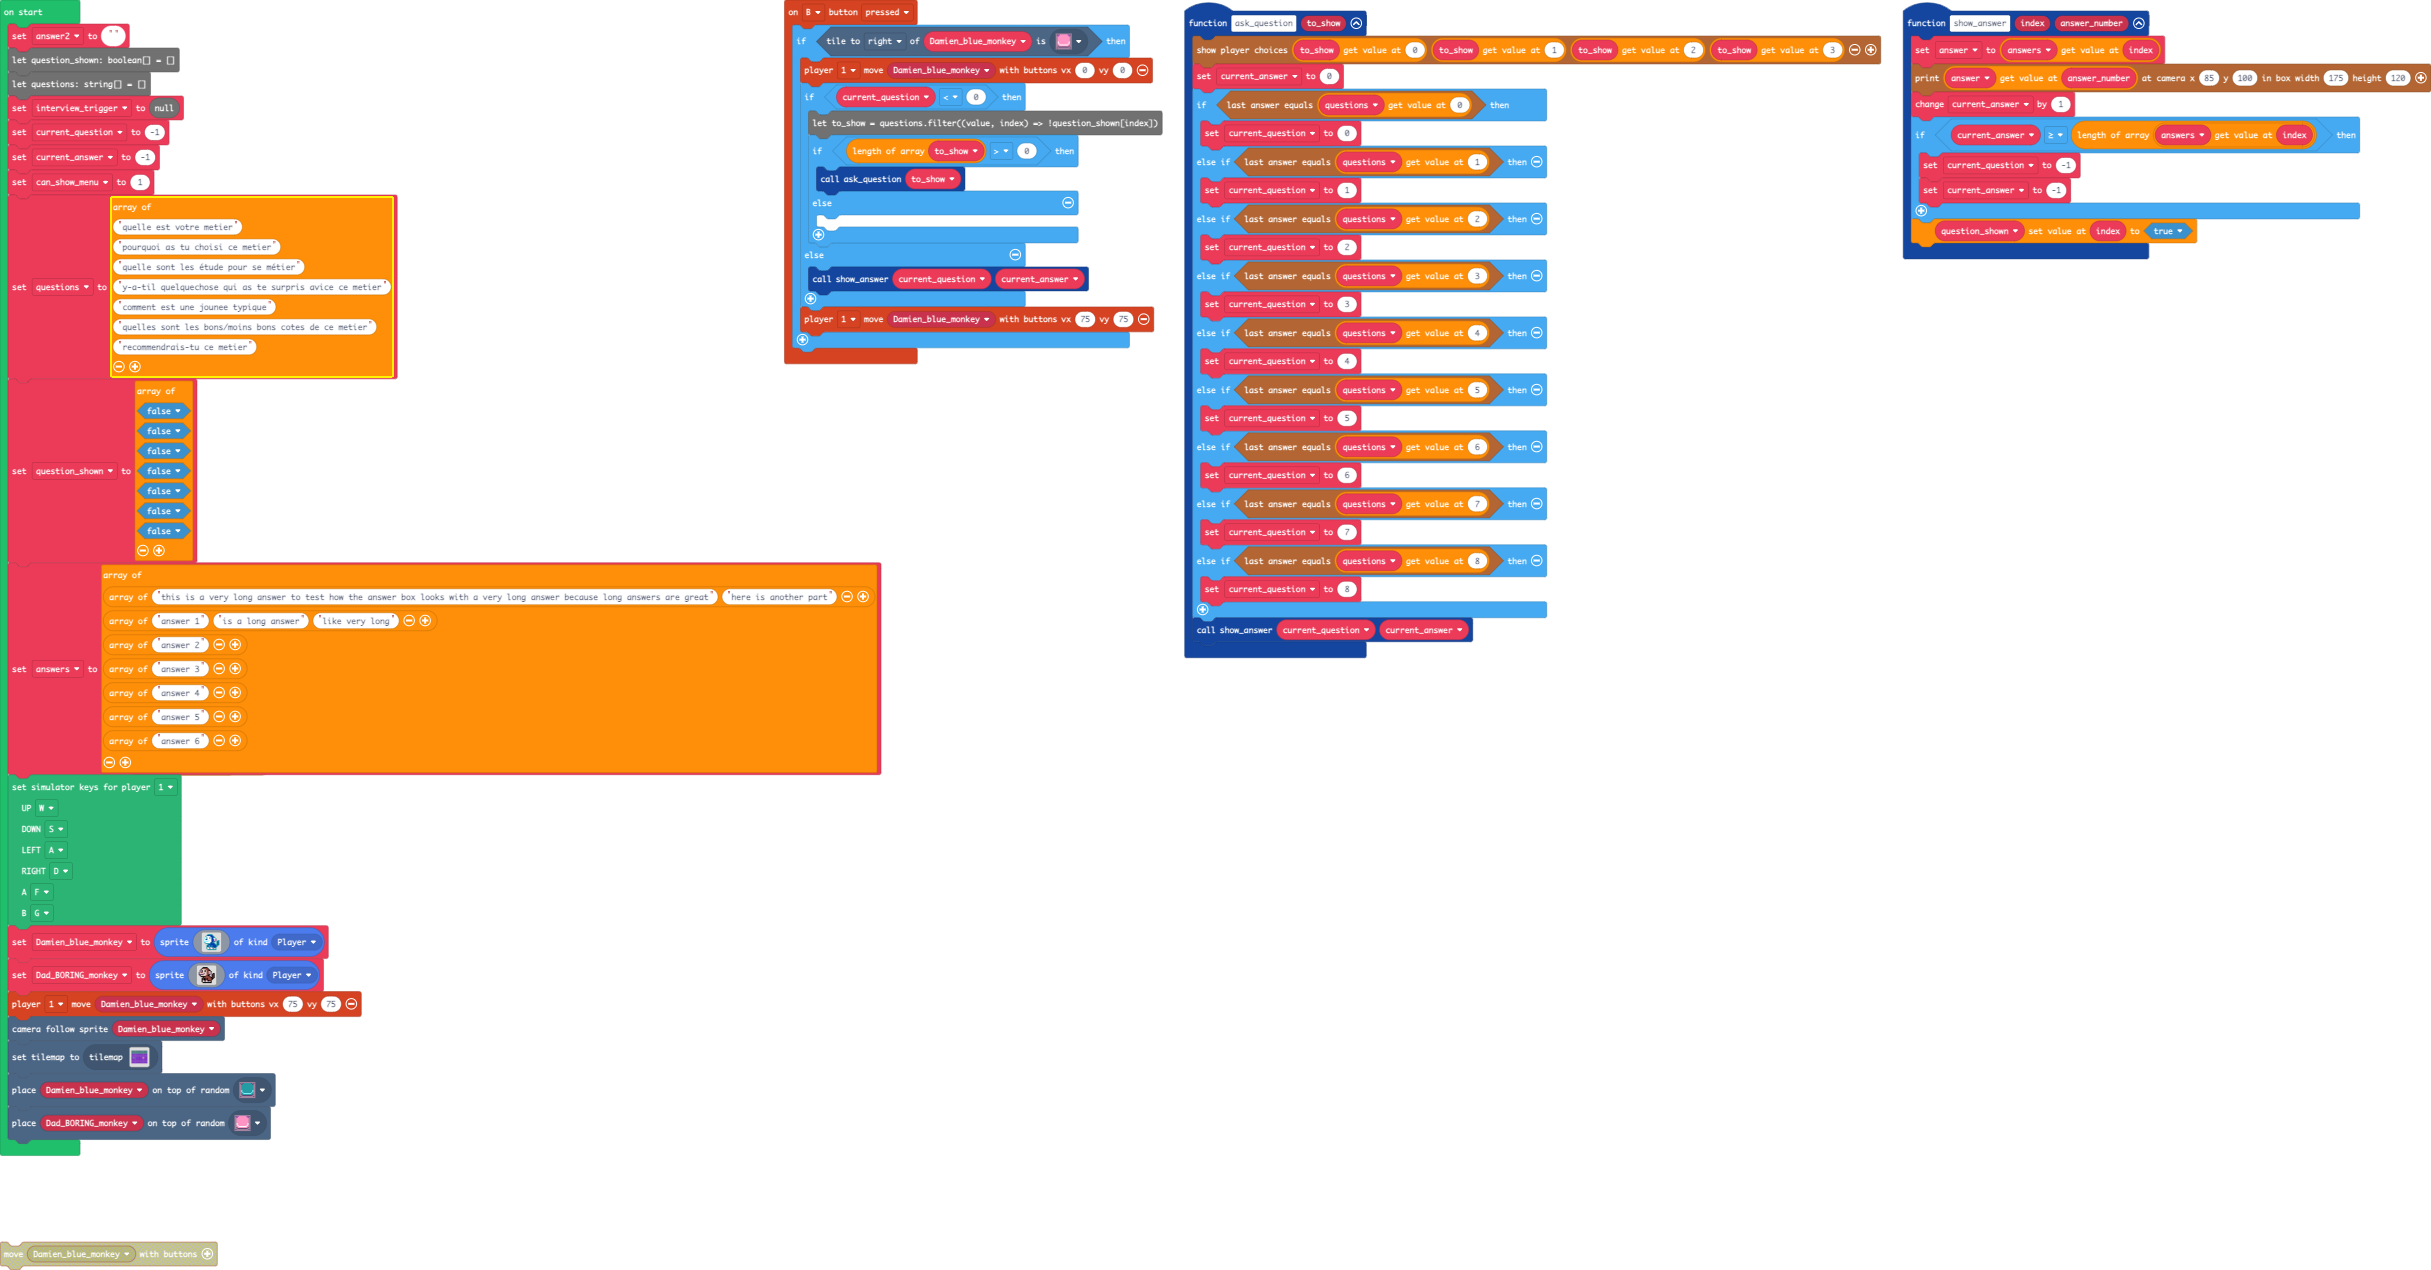
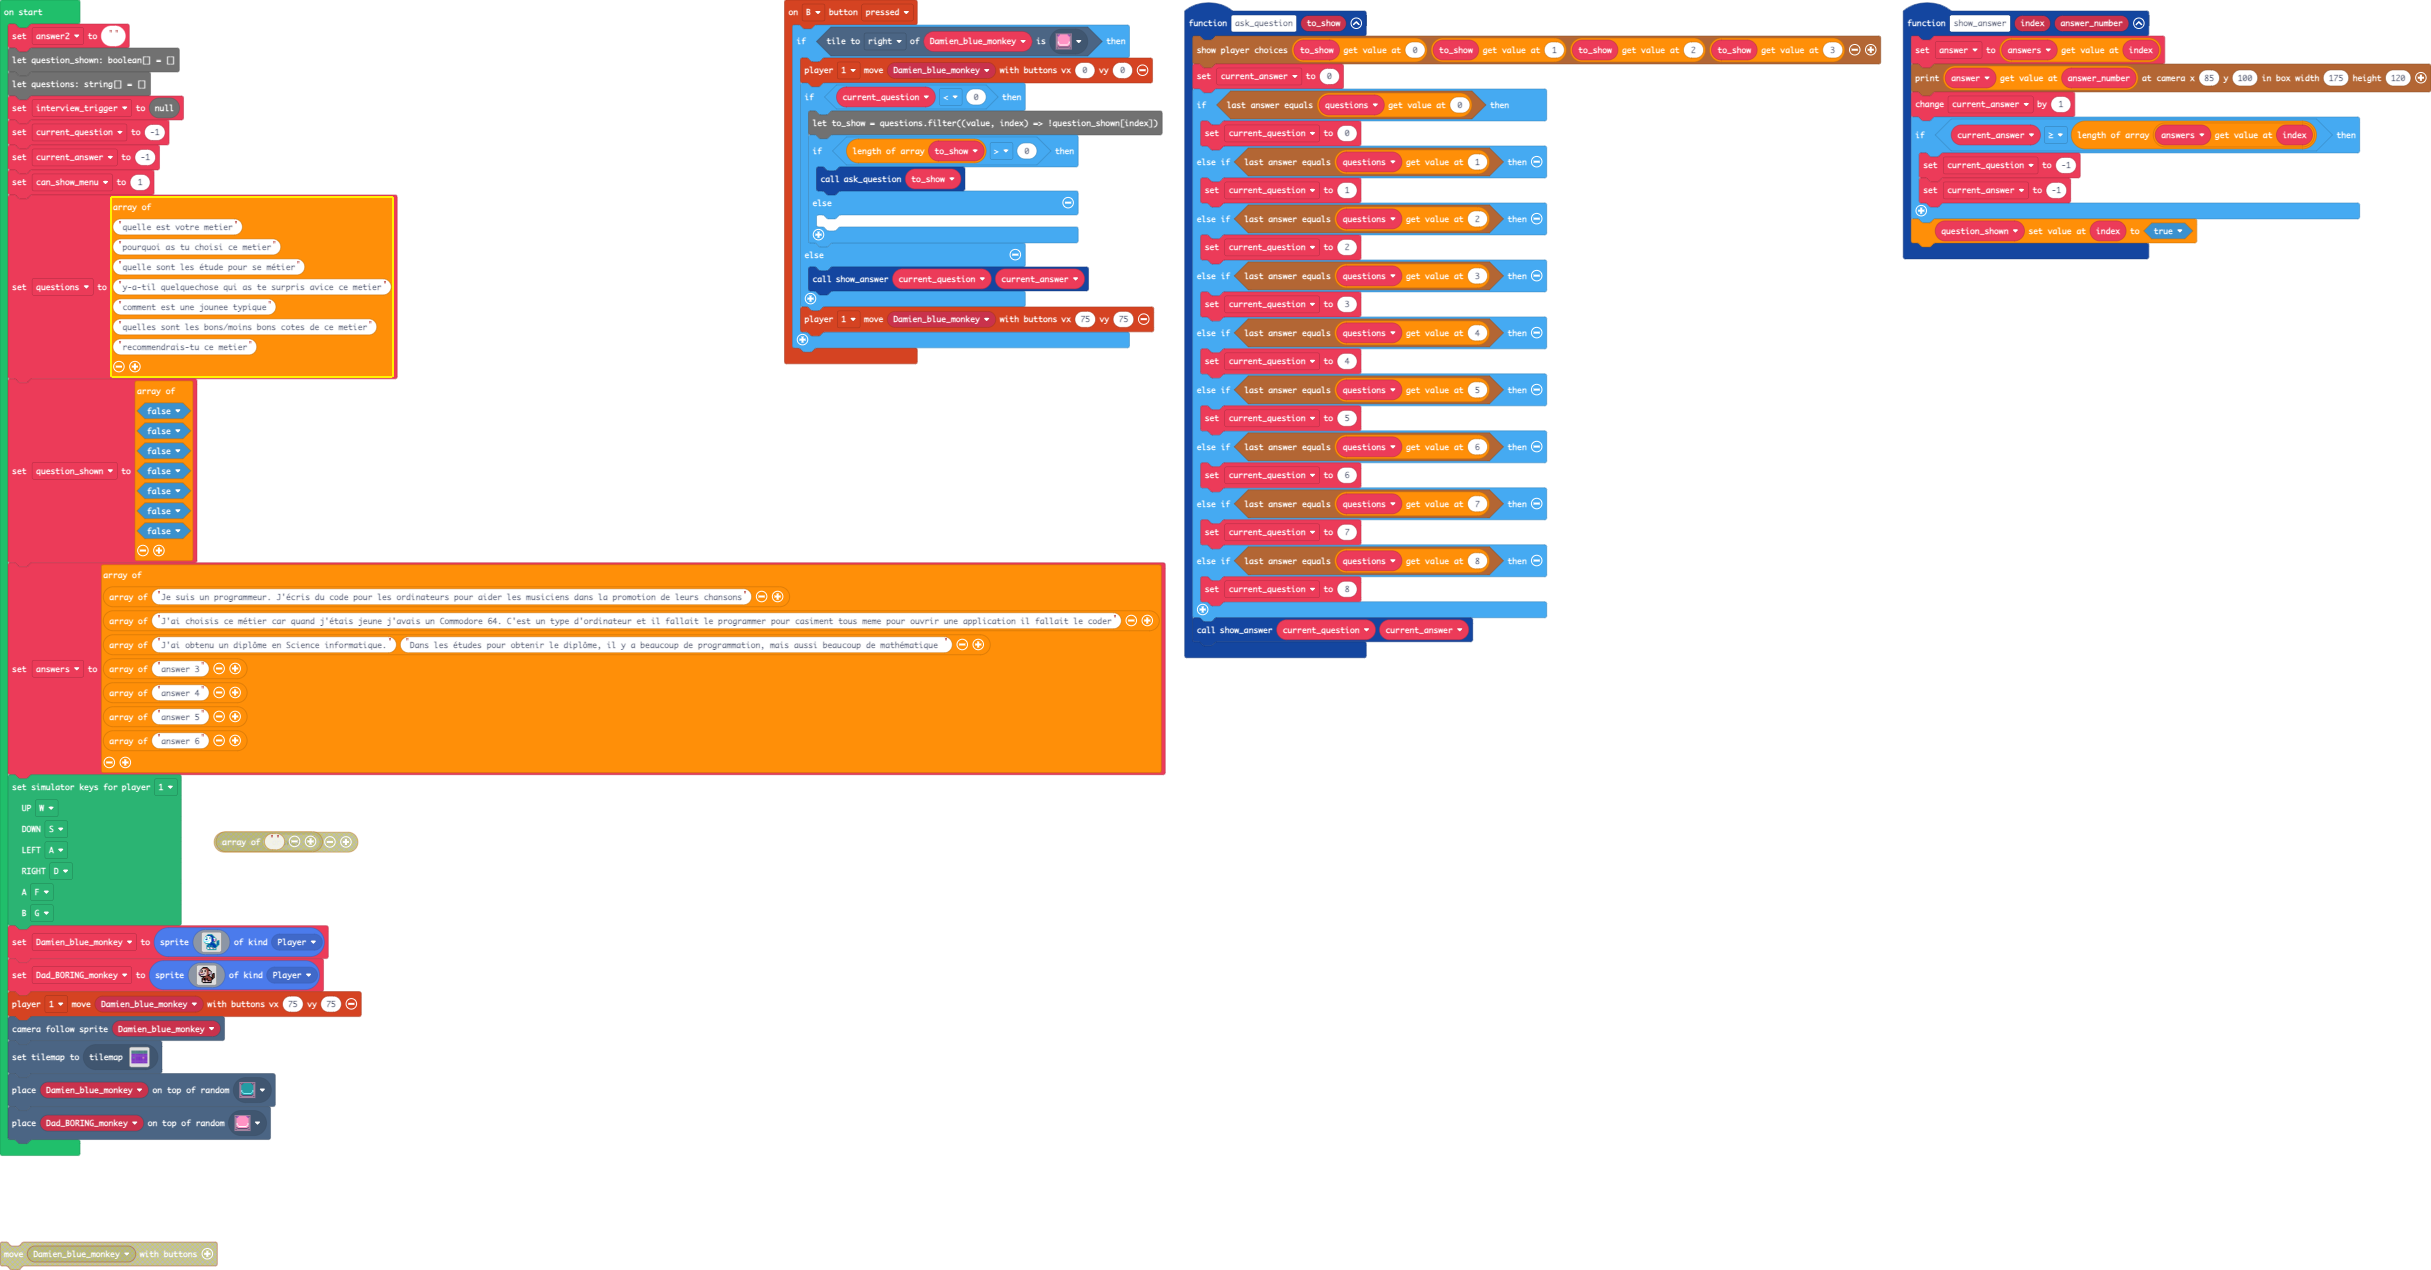
Update main.blocks, main.ts, tilemap.g.jres, tilemap.g.ts

Changed region(s): [[0.0617, 0.4299, 0.4936, 0.6142], [0.0926, 0.6449, 0.1543, 0.6756]]

diff --git a/tilemap.g.ts b/tilemap.g.ts
@@ -16,6 +16,25 @@ namespace myTiles {
 2 2 2 2 2 2 2 2 2 2 
 . . . . . . . . . . 
 `, [myTiles.transparency16,sprites.builtin.crowd0,sprites.builtin.crowd1,sprites.builtin.crowd2,sprites.builtin.crowd3,sprites.builtin.crowd4,sprites.builtin.crowd5,sprites.builtin.crowd6,sprites.builtin.crowd7,sprites.swamp.swampTile7,sprites.dungeon.buttonTeal,sprites.dungeon.buttonPink], TileScale.Sixteen);
+            case "level2":
+            case "level2":return tiles.createTilemap(hex`1000100000000000000000000000000000000000000000000000000000000000000000000000000000000000000000000000000000000000000000000000000000000000000000000000000000000000000000000000000000000000000000000000000000000000000000000000000000000000000000000000000000000000000000000000000000000000000000000000000000000000000000000000000000000000000000000000000000000000000000000000000000000000000000000000000000000000000000000000000000000000000000000000000000000000000000000000000000000000000000000000000000000000000000000000000000000000`, img`
+. . . . . . . . . . . . . . . . 
+. . . . . . . . . . . . . . . . 
+. . . . . . . . . . . . . . . . 
+. . . . . . . . . . . . . . . . 
+. . . . . . . . . . . . . . . . 
+. . . . . . . . . . . . . . . . 
+. . . . . . . . . . . . . . . . 
+. . . . . . . . . . . . . . . . 
+. . . . . . . . . . . . . . . . 
+. . . . . . . . . . . . . . . . 
+. . . . . . . . . . . . . . . . 
+. . . . . . . . . . . . . . . . 
+. . . . . . . . . . . . . . . . 
+. . . . . . . . . . . . . . . . 
+. . . . . . . . . . . . . . . . 
+. . . . . . . . . . . . . . . . 
+`, [myTiles.transparency16], TileScale.Sixteen);
         }
         return null;
     })

diff --git a/main.ts b/main.ts
@@ -79,9 +79,9 @@ false,
 false
 ]
 answers = [
-["this is a very long answer to test how the answer box looks with a very long answer because long answers are great", "here is another part"],
-["answer 1", "is a long answer", "like very long"],
-["answer 2"],
+["Je suis un programmeur. J'écris du code pour les ordinateurs pour aider les musiciens dans la promotion de leurs chansons"],
+["J'ai choisis ce métier car quand j'étais jeune j'avais un Commodore 64. C'est un type d'ordinateur et il fallait le programmer pour casiment tous meme pour ouvrir une application il fallait le coder"],
+["J'ai obtenu un diplôme en Science informatique.", "Dans les études pour obtenir le diplôme, il y a beaucoup de programmation, mais aussi beaucoup de mathématique "],
 ["answer 3"],
 ["answer 4"],
 ["answer 5"],
